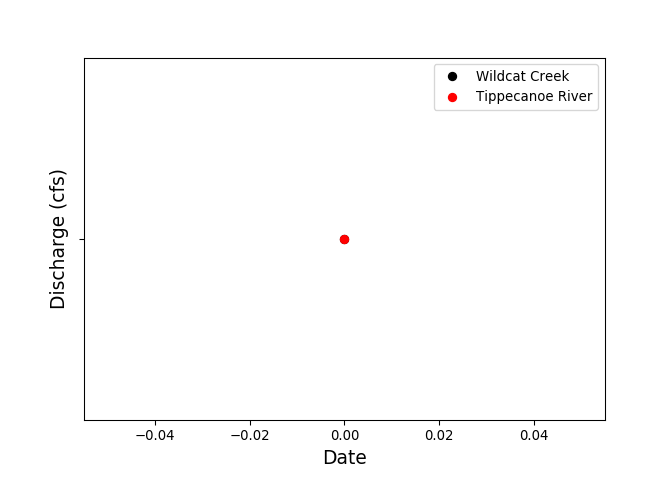
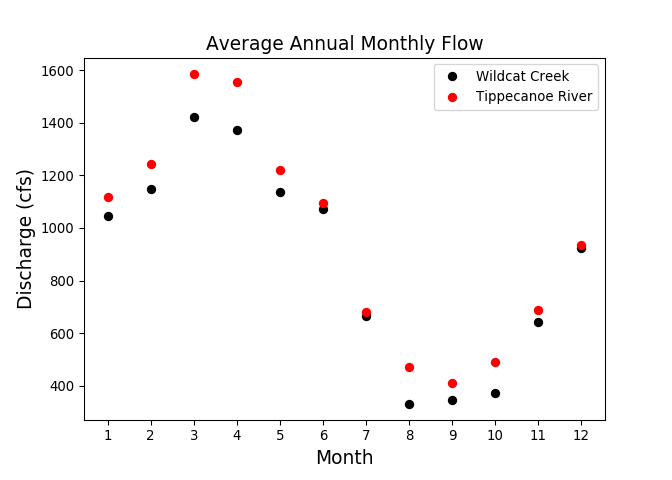
WIP: 1 more plot and the slides

diff --git a/program_11.py b/program_11.py
@@ -17,6 +17,8 @@ import pandas as pd
 import matplotlib.pyplot as plt
 from pylab import rcParams
 
+monthlycolumnheader = ['Mean Flow','Coeff Var','Tqmean','R-B Index'];
+
 def ReadData( fileName ):
     """This function takes a filename as input, and returns a dataframe with
     raw data read from that file in a Pandas DataFrame.  The DataFrame index
@@ -41,10 +43,7 @@ def ReadData( fileName ):
     # check for negative streamflow 
     DataDF.loc[~(DataDF['Discharge'] > 0), 'Discharge'] = np.nan
     
-    # quantify the number of missing and negative values
-    MissingValues = DataDF["Discharge"].isna().sum()   
-    
-    return( DataDF, MissingValues )
+    return( DataDF )
 
 def ClipData( DataDF, startDate, endDate ):
     """This function clips the given time series dataframe to a given range 
@@ -53,9 +52,8 @@ def ClipData( DataDF, startDate, endDate ):
     
     # isolate the date range we want to work with
     DataDF = DataDF.loc[startDate:endDate] # start and end date defined in line 273
-    MissingValues = DataDF["Discharge"].isna().sum() # quantify the number of missing values
 
-    return( DataDF, MissingValues )
+    return( DataDF )
     
 def ReadMetrics( newcsvfiles ):
     """This function takes a filename as input, and returns a dataframe with
@@ -67,9 +65,27 @@ def ReadMetrics( newcsvfiles ):
     NewDF = pd.read_csv(newcsvfiles, header=0, delimiter=',', parse_dates=['Date'], comment='#', index_col=['Date']) 
     return( NewDF )
 
-# the following condition checks whether we are running as a script, in which 
-# case run the test code, otherwise functions are being imported so do not.
-# put the main routines from your code after this conditional check.
+def GetMonthlyStatistics( stripped_monthly ):
+    """This function calculates monthly descriptive statistics and metrics 
+    for the given streamflow time series. Values are returned as a dataframe
+    of monthly values for each year."""
+    
+    # combination of GetMonthlyAverages and GetMonthlyStatistics from assignment 10
+    # take the clipped data and resample it. Group by month 
+
+    monthly_index = stripped_monthly.resample('MS').mean() # resample index - monthly
+    MoDataDF = pd.DataFrame(index = monthly_index.index, columns = monthlycolumnheader) # setting new DF with proper index and headers
+    MDF = stripped_monthly.resample('MS') # resampled DF stored as a simple variable name 
+    
+    #metrics and statistics 
+    MoDataDF['Discharge'] = MDF['Discharge'].mean()
+    
+    isolated_months = MoDataDF.index.month # tip for extracting month from Cherkauer
+    MoDataDF = MoDataDF.groupby(isolated_months).mean() # group the new DF using the months and find the mean of that data
+
+    return ( MoDataDF )
+
+############################################################################################################################################
     
 if __name__ == '__main__':    
 
@@ -88,17 +104,16 @@ if __name__ == '__main__':
     
     # define blank dictionaries (these will use the same keys as fileName)
     DataDF = {}
-    MissingValues = {} 
     NewDF = {}
     
     # process input datasets
     for file in fileName.keys():
         
-        DataDF[file], MissingValues[file] = ReadData(fileName[file])
+        DataDF[file] = ReadData( fileName[file] ) # clip to consistent period - last 5 years
         
-        # clip to consistent period - last 5 years
-        DataDF[file], MissingValues[file] = ClipData( DataDF[file], '2014-10-01', '2019-09-30' )
+        DataDF[file] = ClipData( DataDF[file], '2014-10-01', '2019-09-30' ) # clip to consistent period - last 5 years
         
+          
 ######### daily flow for both streams for the last 5 years of the record - Original TXT files ###############
         plt.plot(DataDF[file]['Discharge'], label=riverName[file]) # indent so the code runs for both data sets 
     plt.legend()
@@ -119,6 +134,7 @@ if __name__ == '__main__':
     wildcat = NewDF['Annual'].loc[NewDF['Annual']['Station']=='Wildcat']
     
     # plotting Annual coefficient of variation - Annual_metrics.csv
+    # date range 50 years
     plt.plot(tippe['Coeff Var'],'ko')
     plt.plot(wildcat['Coeff Var'],'ro')  
     plt.legend([riverName['Wildcat'],riverName['Tippe']], loc='best')
@@ -151,16 +167,23 @@ if __name__ == '__main__':
     plt.savefig('RBindex.png', dpi = 96)
     plt.close()      
     
-    # Function from assingment 10 to get data needed to average annual monthly flow 
-    # GetMonthlyAverages and GetMonthlyStatistics
-    
     # plotting average annual monthly flow 
-    plt.plot([''],'ko')
-    plt.plot([''],'ro')   
+    test1 = ReadData('TippecanoeRiver_Discharge_03331500_19431001-20200315.txt') # unprocessed txt file
+    Raw_Tippe = ClipData(test1,'1969-10-01','2019-09-30') # clip text file to date range
+    tippe_month = GetMonthlyStatistics(Raw_Tippe) # use function to process them
+    
+    test2 = ReadData('WildcatCreek_Discharge_03335000_19540601-20200315.txt')
+    Raw_Wild = ClipData(test2, '1969-10-01','2019-09-30')
+    wild_month = GetMonthlyStatistics(Raw_Wild)
+    # same values as the MonthlyAverages dict/DF in assignment 10
+    
+    plt.plot(wild_month['Discharge'],'ko')
+    plt.plot(tippe_month['Discharge'],'ro')   
     plt.legend([riverName['Wildcat'],riverName['Tippe']], loc='best')
-    plt.xlabel('Date', fontsize = 14)
+    plt.xlabel('Month', fontsize = 14)
+    plt.xticks(np.arange(1, 13, 1)) # show all months on axis
     plt.ylabel('Discharge (cfs)', fontsize = 14)
-    plt.title('', fontsize = 14)
+    plt.title('Average Annual Monthly Flow', fontsize = 14)
     rcParams['figure.figsize'] = 7, 5 # figure size in inches (width, height)
     plt.savefig('Avg_Annual_Flow.png', dpi = 96)
     plt.close()          
